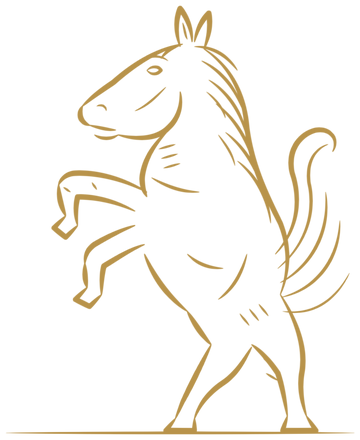
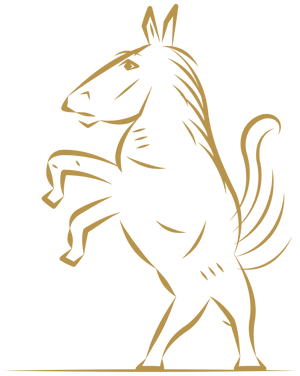
Horse: smaller, sharper, in polished gold
The Blender drawing gets a chiselled head (straight profile, angular
jaw and muzzle, pointed ears, a sharp almond eye) and strokes that taper
to fine points. On the page it shrinks to 74px and is filled with a
metallic gold gradient through the mask, with a faint highlight and
shadow so it reads as gilding; its ground now lines up with the side
hairlines. extras/horse/ carries the updated script.

Claude-Session: https://claude.ai/code/session_01GZHoZ3ydqHpkkkFkCS7gSK

diff --git a/datenschutz.html b/datenschutz.html
@@ -373,13 +373,16 @@ footer small{display:block;margin-top:10px;max-width:60ch;line-height:1.55}
 .deed .ok{background:#F1E7D3;color:#4A3A16;border-radius:2px;padding:12px 14px;font-size:.9rem;
   border-inline-start:3px solid #86672A}
 .deed-foot{display:flex;align-items:flex-end;justify-content:center;gap:14px;margin-top:4px;color:var(--g)}
-.deed-foot::before,.deed-foot::after{content:"";flex:1;height:1px;margin-bottom:3px;
+.deed-foot::before,.deed-foot::after{content:"";flex:1;height:1px;margin-bottom:1px;
   background:linear-gradient(90deg,transparent,rgba(184,147,74,.75))}
 .deed-foot::after{background:linear-gradient(90deg,rgba(184,147,74,.75),transparent)}
-.deed-foot .deed-horse{width:104px;aspect-ratio:360/440;flex:none;background:var(--g);
+.deed-foot .deed-horse{width:74px;aspect-ratio:300/376;flex:none;
   /* drawn as Grease Pencil strokes in Blender and rendered to a transparent
-     PNG; used as a mask so the ink takes the frame's gold */
-  -webkit-mask:url(img/horse.png) center/contain no-repeat;mask:url(img/horse.png) center/contain no-repeat}
+     PNG; used as a mask over a polished gold, with a faint highlight below
+     each line so the ink reads as gilded */
+  background:linear-gradient(160deg,#5E4414 0%,#A9843B 26%,#E2C07A 46%,#8F6C2B 62%,#C9A257 80%,#6A4D18 100%);
+  -webkit-mask:url(img/horse.png) center/contain no-repeat;mask:url(img/horse.png) center/contain no-repeat;
+  filter:drop-shadow(0 1px 0 rgba(255,255,255,.7)) drop-shadow(0 1px 1px rgba(90,64,18,.25))}
 @media (max-width:480px){.deed .two{grid-template-columns:1fr}}
 
 

diff --git a/digital-arbeiten.html b/digital-arbeiten.html
@@ -373,13 +373,16 @@ footer small{display:block;margin-top:10px;max-width:60ch;line-height:1.55}
 .deed .ok{background:#F1E7D3;color:#4A3A16;border-radius:2px;padding:12px 14px;font-size:.9rem;
   border-inline-start:3px solid #86672A}
 .deed-foot{display:flex;align-items:flex-end;justify-content:center;gap:14px;margin-top:4px;color:var(--g)}
-.deed-foot::before,.deed-foot::after{content:"";flex:1;height:1px;margin-bottom:3px;
+.deed-foot::before,.deed-foot::after{content:"";flex:1;height:1px;margin-bottom:1px;
   background:linear-gradient(90deg,transparent,rgba(184,147,74,.75))}
 .deed-foot::after{background:linear-gradient(90deg,rgba(184,147,74,.75),transparent)}
-.deed-foot .deed-horse{width:104px;aspect-ratio:360/440;flex:none;background:var(--g);
+.deed-foot .deed-horse{width:74px;aspect-ratio:300/376;flex:none;
   /* drawn as Grease Pencil strokes in Blender and rendered to a transparent
-     PNG; used as a mask so the ink takes the frame's gold */
-  -webkit-mask:url(img/horse.png) center/contain no-repeat;mask:url(img/horse.png) center/contain no-repeat}
+     PNG; used as a mask over a polished gold, with a faint highlight below
+     each line so the ink reads as gilded */
+  background:linear-gradient(160deg,#5E4414 0%,#A9843B 26%,#E2C07A 46%,#8F6C2B 62%,#C9A257 80%,#6A4D18 100%);
+  -webkit-mask:url(img/horse.png) center/contain no-repeat;mask:url(img/horse.png) center/contain no-repeat;
+  filter:drop-shadow(0 1px 0 rgba(255,255,255,.7)) drop-shadow(0 1px 1px rgba(90,64,18,.25))}
 @media (max-width:480px){.deed .two{grid-template-columns:1fr}}
 
 

diff --git a/impressum.html b/impressum.html
@@ -373,13 +373,16 @@ footer small{display:block;margin-top:10px;max-width:60ch;line-height:1.55}
 .deed .ok{background:#F1E7D3;color:#4A3A16;border-radius:2px;padding:12px 14px;font-size:.9rem;
   border-inline-start:3px solid #86672A}
 .deed-foot{display:flex;align-items:flex-end;justify-content:center;gap:14px;margin-top:4px;color:var(--g)}
-.deed-foot::before,.deed-foot::after{content:"";flex:1;height:1px;margin-bottom:3px;
+.deed-foot::before,.deed-foot::after{content:"";flex:1;height:1px;margin-bottom:1px;
   background:linear-gradient(90deg,transparent,rgba(184,147,74,.75))}
 .deed-foot::after{background:linear-gradient(90deg,rgba(184,147,74,.75),transparent)}
-.deed-foot .deed-horse{width:104px;aspect-ratio:360/440;flex:none;background:var(--g);
+.deed-foot .deed-horse{width:74px;aspect-ratio:300/376;flex:none;
   /* drawn as Grease Pencil strokes in Blender and rendered to a transparent
-     PNG; used as a mask so the ink takes the frame's gold */
-  -webkit-mask:url(img/horse.png) center/contain no-repeat;mask:url(img/horse.png) center/contain no-repeat}
+     PNG; used as a mask over a polished gold, with a faint highlight below
+     each line so the ink reads as gilded */
+  background:linear-gradient(160deg,#5E4414 0%,#A9843B 26%,#E2C07A 46%,#8F6C2B 62%,#C9A257 80%,#6A4D18 100%);
+  -webkit-mask:url(img/horse.png) center/contain no-repeat;mask:url(img/horse.png) center/contain no-repeat;
+  filter:drop-shadow(0 1px 0 rgba(255,255,255,.7)) drop-shadow(0 1px 1px rgba(90,64,18,.25))}
 @media (max-width:480px){.deed .two{grid-template-columns:1fr}}
 
 

diff --git a/index.html b/index.html
@@ -373,13 +373,16 @@ footer small{display:block;margin-top:10px;max-width:60ch;line-height:1.55}
 .deed .ok{background:#F1E7D3;color:#4A3A16;border-radius:2px;padding:12px 14px;font-size:.9rem;
   border-inline-start:3px solid #86672A}
 .deed-foot{display:flex;align-items:flex-end;justify-content:center;gap:14px;margin-top:4px;color:var(--g)}
-.deed-foot::before,.deed-foot::after{content:"";flex:1;height:1px;margin-bottom:3px;
+.deed-foot::before,.deed-foot::after{content:"";flex:1;height:1px;margin-bottom:1px;
   background:linear-gradient(90deg,transparent,rgba(184,147,74,.75))}
 .deed-foot::after{background:linear-gradient(90deg,rgba(184,147,74,.75),transparent)}
-.deed-foot .deed-horse{width:104px;aspect-ratio:360/440;flex:none;background:var(--g);
+.deed-foot .deed-horse{width:74px;aspect-ratio:300/376;flex:none;
   /* drawn as Grease Pencil strokes in Blender and rendered to a transparent
-     PNG; used as a mask so the ink takes the frame's gold */
-  -webkit-mask:url(img/horse.png) center/contain no-repeat;mask:url(img/horse.png) center/contain no-repeat}
+     PNG; used as a mask over a polished gold, with a faint highlight below
+     each line so the ink reads as gilded */
+  background:linear-gradient(160deg,#5E4414 0%,#A9843B 26%,#E2C07A 46%,#8F6C2B 62%,#C9A257 80%,#6A4D18 100%);
+  -webkit-mask:url(img/horse.png) center/contain no-repeat;mask:url(img/horse.png) center/contain no-repeat;
+  filter:drop-shadow(0 1px 0 rgba(255,255,255,.7)) drop-shadow(0 1px 1px rgba(90,64,18,.25))}
 @media (max-width:480px){.deed .two{grid-template-columns:1fr}}
 
 

diff --git a/leistungen-beratung-controlling.html b/leistungen-beratung-controlling.html
@@ -373,13 +373,16 @@ footer small{display:block;margin-top:10px;max-width:60ch;line-height:1.55}
 .deed .ok{background:#F1E7D3;color:#4A3A16;border-radius:2px;padding:12px 14px;font-size:.9rem;
   border-inline-start:3px solid #86672A}
 .deed-foot{display:flex;align-items:flex-end;justify-content:center;gap:14px;margin-top:4px;color:var(--g)}
-.deed-foot::before,.deed-foot::after{content:"";flex:1;height:1px;margin-bottom:3px;
+.deed-foot::before,.deed-foot::after{content:"";flex:1;height:1px;margin-bottom:1px;
   background:linear-gradient(90deg,transparent,rgba(184,147,74,.75))}
 .deed-foot::after{background:linear-gradient(90deg,rgba(184,147,74,.75),transparent)}
-.deed-foot .deed-horse{width:104px;aspect-ratio:360/440;flex:none;background:var(--g);
+.deed-foot .deed-horse{width:74px;aspect-ratio:300/376;flex:none;
   /* drawn as Grease Pencil strokes in Blender and rendered to a transparent
-     PNG; used as a mask so the ink takes the frame's gold */
-  -webkit-mask:url(img/horse.png) center/contain no-repeat;mask:url(img/horse.png) center/contain no-repeat}
+     PNG; used as a mask over a polished gold, with a faint highlight below
+     each line so the ink reads as gilded */
+  background:linear-gradient(160deg,#5E4414 0%,#A9843B 26%,#E2C07A 46%,#8F6C2B 62%,#C9A257 80%,#6A4D18 100%);
+  -webkit-mask:url(img/horse.png) center/contain no-repeat;mask:url(img/horse.png) center/contain no-repeat;
+  filter:drop-shadow(0 1px 0 rgba(255,255,255,.7)) drop-shadow(0 1px 1px rgba(90,64,18,.25))}
 @media (max-width:480px){.deed .two{grid-template-columns:1fr}}
 
 

diff --git a/leistungen-buchhaltung-lohn.html b/leistungen-buchhaltung-lohn.html
@@ -373,13 +373,16 @@ footer small{display:block;margin-top:10px;max-width:60ch;line-height:1.55}
 .deed .ok{background:#F1E7D3;color:#4A3A16;border-radius:2px;padding:12px 14px;font-size:.9rem;
   border-inline-start:3px solid #86672A}
 .deed-foot{display:flex;align-items:flex-end;justify-content:center;gap:14px;margin-top:4px;color:var(--g)}
-.deed-foot::before,.deed-foot::after{content:"";flex:1;height:1px;margin-bottom:3px;
+.deed-foot::before,.deed-foot::after{content:"";flex:1;height:1px;margin-bottom:1px;
   background:linear-gradient(90deg,transparent,rgba(184,147,74,.75))}
 .deed-foot::after{background:linear-gradient(90deg,rgba(184,147,74,.75),transparent)}
-.deed-foot .deed-horse{width:104px;aspect-ratio:360/440;flex:none;background:var(--g);
+.deed-foot .deed-horse{width:74px;aspect-ratio:300/376;flex:none;
   /* drawn as Grease Pencil strokes in Blender and rendered to a transparent
-     PNG; used as a mask so the ink takes the frame's gold */
-  -webkit-mask:url(img/horse.png) center/contain no-repeat;mask:url(img/horse.png) center/contain no-repeat}
+     PNG; used as a mask over a polished gold, with a faint highlight below
+     each line so the ink reads as gilded */
+  background:linear-gradient(160deg,#5E4414 0%,#A9843B 26%,#E2C07A 46%,#8F6C2B 62%,#C9A257 80%,#6A4D18 100%);
+  -webkit-mask:url(img/horse.png) center/contain no-repeat;mask:url(img/horse.png) center/contain no-repeat;
+  filter:drop-shadow(0 1px 0 rgba(255,255,255,.7)) drop-shadow(0 1px 1px rgba(90,64,18,.25))}
 @media (max-width:480px){.deed .two{grid-template-columns:1fr}}
 
 

diff --git a/src/artifact-page.html b/src/artifact-page.html
@@ -367,13 +367,16 @@ footer small{display:block;margin-top:10px;max-width:60ch;line-height:1.55}
 .deed .ok{background:#F1E7D3;color:#4A3A16;border-radius:2px;padding:12px 14px;font-size:.9rem;
   border-inline-start:3px solid #86672A}
 .deed-foot{display:flex;align-items:flex-end;justify-content:center;gap:14px;margin-top:4px;color:var(--g)}
-.deed-foot::before,.deed-foot::after{content:"";flex:1;height:1px;margin-bottom:3px;
+.deed-foot::before,.deed-foot::after{content:"";flex:1;height:1px;margin-bottom:1px;
   background:linear-gradient(90deg,transparent,rgba(184,147,74,.75))}
 .deed-foot::after{background:linear-gradient(90deg,rgba(184,147,74,.75),transparent)}
-.deed-foot .deed-horse{width:104px;aspect-ratio:360/440;flex:none;background:var(--g);
+.deed-foot .deed-horse{width:74px;aspect-ratio:300/376;flex:none;
   /* drawn as Grease Pencil strokes in Blender and rendered to a transparent
-     PNG; used as a mask so the ink takes the frame's gold */
-  -webkit-mask:url(img/horse.png) center/contain no-repeat;mask:url(img/horse.png) center/contain no-repeat}
+     PNG; used as a mask over a polished gold, with a faint highlight below
+     each line so the ink reads as gilded */
+  background:linear-gradient(160deg,#5E4414 0%,#A9843B 26%,#E2C07A 46%,#8F6C2B 62%,#C9A257 80%,#6A4D18 100%);
+  -webkit-mask:url(img/horse.png) center/contain no-repeat;mask:url(img/horse.png) center/contain no-repeat;
+  filter:drop-shadow(0 1px 0 rgba(255,255,255,.7)) drop-shadow(0 1px 1px rgba(90,64,18,.25))}
 @media (max-width:480px){.deed .two{grid-template-columns:1fr}}
 
 

diff --git a/src/body.html b/src/body.html
@@ -367,13 +367,16 @@ footer small{display:block;margin-top:10px;max-width:60ch;line-height:1.55}
 .deed .ok{background:#F1E7D3;color:#4A3A16;border-radius:2px;padding:12px 14px;font-size:.9rem;
   border-inline-start:3px solid #86672A}
 .deed-foot{display:flex;align-items:flex-end;justify-content:center;gap:14px;margin-top:4px;color:var(--g)}
-.deed-foot::before,.deed-foot::after{content:"";flex:1;height:1px;margin-bottom:3px;
+.deed-foot::before,.deed-foot::after{content:"";flex:1;height:1px;margin-bottom:1px;
   background:linear-gradient(90deg,transparent,rgba(184,147,74,.75))}
 .deed-foot::after{background:linear-gradient(90deg,rgba(184,147,74,.75),transparent)}
-.deed-foot .deed-horse{width:104px;aspect-ratio:360/440;flex:none;background:var(--g);
+.deed-foot .deed-horse{width:74px;aspect-ratio:300/376;flex:none;
   /* drawn as Grease Pencil strokes in Blender and rendered to a transparent
-     PNG; used as a mask so the ink takes the frame's gold */
-  -webkit-mask:url(img/horse.png) center/contain no-repeat;mask:url(img/horse.png) center/contain no-repeat}
+     PNG; used as a mask over a polished gold, with a faint highlight below
+     each line so the ink reads as gilded */
+  background:linear-gradient(160deg,#5E4414 0%,#A9843B 26%,#E2C07A 46%,#8F6C2B 62%,#C9A257 80%,#6A4D18 100%);
+  -webkit-mask:url(img/horse.png) center/contain no-repeat;mask:url(img/horse.png) center/contain no-repeat;
+  filter:drop-shadow(0 1px 0 rgba(255,255,255,.7)) drop-shadow(0 1px 1px rgba(90,64,18,.25))}
 @media (max-width:480px){.deed .two{grid-template-columns:1fr}}
 
 

diff --git a/extras/horse/horse_grease_pencil.py b/extras/horse/horse_grease_pencil.py
@@ -4,19 +4,20 @@ W=1.0   # outline weight
 D=0.62  # detail weight
 F=0.42  # fine hatching
 STROKES=[
- # head: long noble profile tapering to the muzzle, calm eye, alert ears
- (W,"M116 44 C106 46 96 52 87 60 C81 64 77 67 74 70"),
- (W,"M74 70 C72 73 73 77 77 78"),
- (D,"M77 78 C81 79 85 80 88 80"),
- (D,"M79 82 C82 84 86 84 89 82"),
- (W,"M89 82 C96 84 104 84 109 80 C114 76 116 70 115 64"),
- (F,"M109 62 C105 66 101 70 96 72"),
- (D,"M101 55 C103 53 106 53 107 55 C105 57 103 57 101 55"),
- (F,"M98 51 C101 49 106 48 110 51"),
- (F,"M80 70 C82 69 84 70 84 72"),
- (W,"M115 45 C113 39 113 34 115 29 C118 33 120 38 120 43"),
- (W,"M121 43 C122 38 124 34 127 31 C128 36 127 41 125 46"),
- (F,"M116 35 C117 38 117 40 118 42"),
+ # head: chiselled, angular profile, sharp almond eye, pointed ears
+ (W,"M116 44 C104 48 88 58 74 70"),
+ (W,"M74 70 L72 76 L78 78"),
+ (D,"M78 78 L88 80"),
+ (D,"M79 82 L84 85 L90 82"),
+ (W,"M90 82 C98 84 105 83 110 79 L116 65"),
+ (F,"M110 61 L97 72"),
+ (D,"M99 55 L104 52 L109 55 L104 57 Z"),
+ (1.6,"M102 55 L106 55"),
+ (F,"M97 50 C101 47 106 47 111 50"),
+ (F,"M80 69 L84 68 L85 72"),
+ (W,"M115 45 L112 35 L115 26 L120 43"),
+ (W,"M121 43 L123 33 L128 25 L126 46"),
+ (F,"M115 33 L117 41"),
  # neck front, throat, chest
  (W,"M110 80 C104 86 100 92 99 100 C99 104 100 106 101 108"),
  # crest and back to rump
@@ -100,15 +101,15 @@ lines=[]
 for w,path in STROKES:
     for pl in sample(path): lines.append((w,pl))
 d.add_strokes([len(pl) for w,pl in lines])
-BASE=0.0115
+BASE=0.0135
 for st,(w,pl) in zip(d.strokes,lines):
     n=len(pl)
     for j,(x,y) in enumerate(pl):
         t=j/(n-1) if n>1 else .5
-        taper=0.16+0.84*(math.sin(math.pi*t)**0.65)
+        taper=0.05+0.95*(math.sin(math.pi*t)**1.05)
         p=st.points[j]; p.position=((x-115)/100,0,-(y-115)/100); p.radius=BASE*w*taper
 cam=bpy.data.cameras.new("C"); cam.type='ORTHO'; cam.ortho_scale=1.9
 co=bpy.data.objects.new("C",cam); sc.collection.objects.link(co); co.location=(0,-5,0); co.rotation_euler=(math.pi/2,0,0); sc.camera=co
-sc.render.resolution_x=1000; sc.render.resolution_y=1000; sc.render.film_transparent=True
+sc.render.resolution_x=1400; sc.render.resolution_y=1400; sc.render.film_transparent=True
 sc.render.engine='BLENDER_EEVEE'; sc.view_settings.view_transform='Standard'
 sc.render.filepath=OUT; bpy.ops.render.render(write_still=True)
